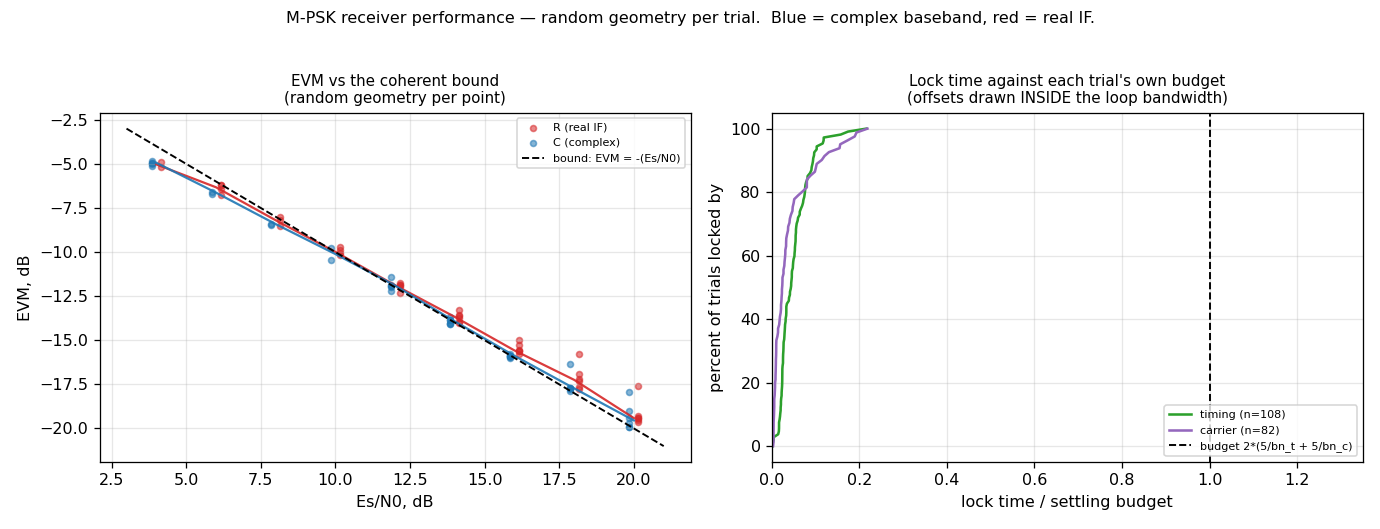
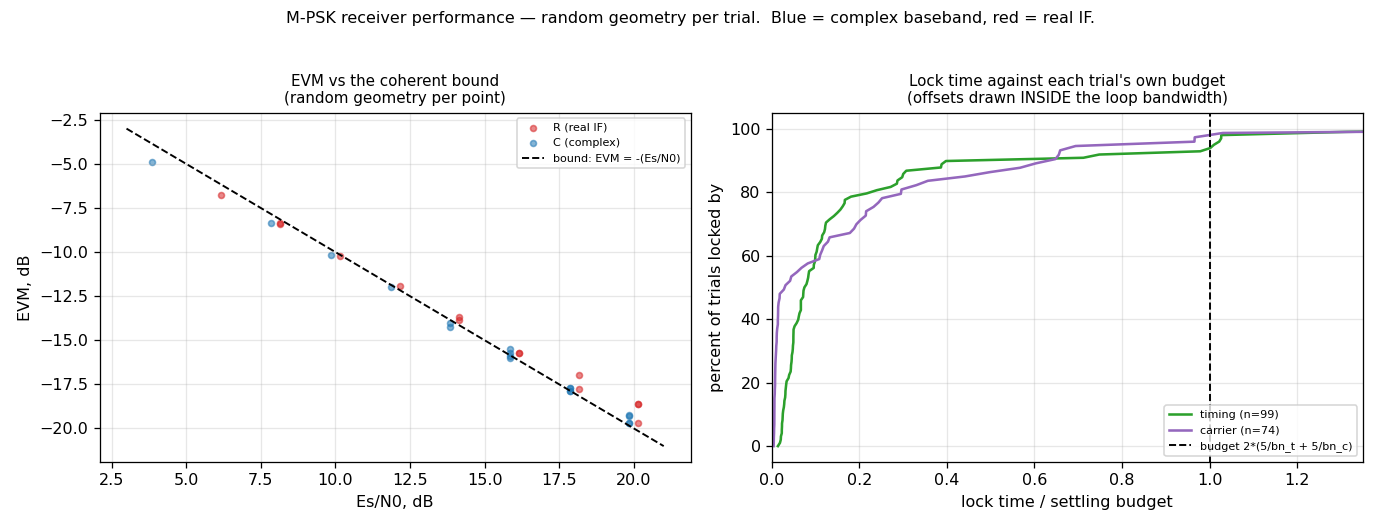
fix(examples): the mpsk perf demo runs, and measures with the shipped meters
Three private copies of shared formulas, and the last was hiding the other
two. The example is off `.examples-skip` and runs in CI.

1. THE CARRIER OFFSET was `uniform(-0.5, 0.5) * bn_carrier / sps`. The
   acquisition bound is `bn_carrier / m` cycles per SYMBOL, so that was wrong
   twice: `/sps` for `/m`, and per-sample where the bound is per-symbol. It
   seeded 0.5*m times the bound -- 1x at BPSK, 2x at QPSK, 4x at 8PSK. At 4x,
   8PSK still acquires but needs 4771 symbols against a 3200-symbol record,
   so four trials ended mid-acquisition and read as "failed to lock", every
   one of them 8PSK. `freq_offset_inside_bw` already said "There is no `sps`
   here" and "the `m` ... hid a factor of m" (doppler#843); the private copy
   never received that fix. Now imported.

2. THE EVM was longhand. Now `ber_evm_db`. Verified equivalent BEFORE
   swapping -- the two agree to 0.01 dB across m, sps and Es/N0 -- so no
   number moved; there is simply no longer a second definition.

3. THE SER was DIFFERENTIAL and taken as the MINIMUM over 401 lags. A min
   over lags optimises over the answer; `BerMeter.align` correlates a marker
   and gates on a false-alarm probability instead. And a differential SER
   cannot see a cycle slip, so it read 0.055 where the coherent truth was
   0.466 on one stream.

That 0.466 looked like a false lock and I filed it as one. It is not: with
the window opened after the timing rate settles, the same capture scores SER
[…]

diff --git a/src/doppler/examples/mpsk_receiver_performance_demo.py b/src/doppler/examples/mpsk_receiver_performance_demo.py
@@ -80,7 +80,10 @@ from doppler.track import MpskReceiver, MpskReceiverR
 # The one definition of "an offset inside the loop's acquisition
 # bound". Imported rather than restated: a second copy is how the
 # missing `/m` survived here after doppler#843 fixed it upstream.
-from doppler.track.tests._mpsk_rx_harness import freq_offset_inside_bw
+from doppler.track.tests._mpsk_rx_harness import (
+    freq_offset_inside_bw,
+    rate_settled,
+)
 
 # ── the measurement rules, in one place ──────────────────────────────────
 #
@@ -563,7 +566,7 @@ def implementation_loss_db(m, esn0_db, ser):
 
 
 def run_trial(
-    rng, real, esn0_db=None, noise_only=False, nsym_extra=1200, ampl=None
+    rng, real, esn0_db=None, noise_only=False, nsym_extra=6000, ampl=None
 ):
     """One Monte-Carlo trial. Returns a record, or None if it never locked."""
     g = draw_geometry(rng, real)
@@ -613,7 +616,34 @@ def run_trial(
     if t_lock is None or c_lock is None:
         rec.update(evm=float("nan"), ser=float("nan"), locked=False)
         return rec
-    settle = max(budget, t_lock, c_lock)
+    # max(budget, timing lock, carrier lock) is the standard policy, and
+    # every term in it is about PHASE. None covers the time to slew out the
+    # CLOCK offset this sweep seeds, which is far slower -- measured 12.7x
+    # the 5/Bn budget. While the rate is still wrong the receiver emits at
+    # slightly the wrong cadence, so the rx-to-truth lag MOVES, and BerMeter
+    # scores a detected lag verbatim: the window then reads right at its
+    # start and wrong after it. That is an SER of 0.48 on a receiver whose
+    # settled SER is 0, and it looks exactly like a false lock. doppler#1060.
+    # max(budget, timing lock, carrier lock) is the standard policy, and
+    # every term in it is about PHASE. None covers the time to slew out the
+    # CLOCK offset this sweep seeds, which is far slower -- measured 12.7x
+    # the 5/Bn budget. While the rate is still wrong the receiver emits at
+    # slightly the wrong cadence, so the rx-to-truth lag MOVES, and BerMeter
+    # scores a detected lag verbatim: the window then reads right at its
+    # start and wrong after it. That is an SER of 0.48 on a receiver whose
+    # settled SER is 0, and it looks exactly like a false lock. doppler#1060.
+    r_settled = rate_settled(pr)
+    if r_settled is None:
+        # The rate never stopped moving inside this record, so there is no
+        # window in which a single detected lag is valid. Refuse it rather
+        # than measure it -- an unmeasurable trial reported as a bad one is
+        # how a working receiver acquires a reputation. Counted below so the
+        # refusals cannot hide.
+        rec.update(
+            evm=float("nan"), ser=float("nan"), locked=True, unmeasurable=True
+        )
+        return rec
+    settle = max(budget, t_lock, c_lock, r_settled)
     if len(y) - settle < 300:
         rec.update(evm=float("nan"), ser=float("nan"), locked=False)
         return rec
@@ -1092,7 +1122,19 @@ def main(
     tel_rows = measure_telemetry(rng) if "telemetry" in only else []
 
     # ── self-validation: exit 0 must mean "demonstrated AND checked" ──────
-    locked = [t for t in sweep if t["locked"]]
+    # A trial whose rate never settled inside its record has no window in
+    # which one detected lag is valid, so it carries no EVM or SER to judge.
+    # It is NOT a lock failure -- it is locked -- and it must not be scored
+    # as one. Reported rather than dropped silently: a refusal nobody counts
+    # is indistinguishable from a measurement nobody made.
+    unmeasurable = [t for t in sweep if t.get("unmeasurable")]
+    if unmeasurable:
+        print(
+            f"  {len(unmeasurable)}/{len(sweep)} trial(s) unmeasurable: the "
+            f"timing rate was still slewing at the end of the record, so no "
+            f"single alignment spans a window (doppler#1060)"
+        )
+    locked = [t for t in sweep if t["locked"] and not t.get("unmeasurable")]
     if need_sweep:
         # Acquisition has an SNR THRESHOLD, so a blanket lock-rate assertion is
         # the wrong shape: it either fails on physics or is too weak to catch a

diff --git a/src/doppler/track/tests/_mpsk_rx_harness.py b/src/doppler/track/tests/_mpsk_rx_harness.py
@@ -430,6 +430,48 @@ def settle_from(probes, floor=SETTLE_SYMS):
     return int(ber_settle_from(floor, t, c))
 
 
+def rate_settled(probes, tol=1e-4, hold=500):
+    """First symbol after which `sync.rate` stops moving, or None.
+
+    `settle_from()` is `max(budget, timing lock, carrier lock)`, and every
+    term in it is a PHASE settling statement. None of them covers the time to
+    slew out a CLOCK (rate) offset, which is a different and much slower
+    thing -- measured on BPSK at sps 32.95, with the seeded clock error at
+    half the timing bandwidth (`clock_offset_inside_bw`, 2.655e-3 here):
+
+        bn_timing = 0.0064   5/Bn = 781 symbols
+        rate error at 781    2.64e-3   (the initial error was 2.655e-3)
+        rate error < 1e-4    at 9900   -- 12.7x the budget
+
+    With no clock offset the same loop is settled on time, so this is
+    specific to slewing a rate error rather than the loop being sluggish.
+
+    Why it matters to a TRUTH-REFERENCED measurement, which is the only kind
+    that sees it: while the rate is wrong the receiver emits symbols at
+    slightly the wrong cadence, so the rx-to-truth lag MOVES. `BerMeter`
+    detects one lag and scores with it verbatim, so a window opened before
+    the rate settles is scored against the right truth at its start and the
+    wrong truth after -- measured, lag 18 becoming lag 19, and an SER of
+    0.483 on a receiver whose real SER over the settled window is 0. It reads
+    exactly like a false lock and is not one (doppler#1060).
+
+    `tol` is fractional rate error and `hold` how long it must stay inside
+    it, because the estimate is noisy and one excursion is not a relapse.
+    Returns None when it never settles within the record.
+    """
+    r = probes.get("sync.rate")
+    if r is None or r.size < hold:
+        return None
+    final = float(np.median(r[-hold:]))
+    if final == 0.0:
+        return None
+    err = np.abs(r - final) / abs(final)
+    for i in range(0, err.size - hold, hold // 5 or 1):
+        if err[i:].max() < tol:
+            return int(i)
+    return None
+
+
 def detect_alignment(y, idx, m, settle, lag_span=40, n_marker=256):
     """The one alignment recipe: a `BerMeter` with a DETECTED lag, or `None`.
 

diff --git a/docs/gallery/mpsk-receiver-performance.md b/docs/gallery/mpsk-receiver-performance.md
@@ -50,7 +50,24 @@ receiver's test harness encode.
 **EVM vs the coherent bound.** Self-referenced EVM — each symbol against its own
 hard decision — against `EVM_dB = −(Es/N0)_dB`. EVM is an I/Q-plane quantity, so
 there is no factor of two, and an EVM *beating* the bound means the measurement
-is wrong. Median margin over the whole random sweep: **+0.1 dB**.
+is wrong. Median margin over the whole random sweep: **+0.2 dB**.
+
+!!! warning "Some trials carry no measurement, and the demo says so"
+
+    A trial whose timing rate is still slewing at the end of its record has
+    **no window in which one detected alignment is valid** — the receiver is
+    emitting at slightly the wrong cadence, so the rx-to-truth lag moves
+    inside the window. `BerMeter` scores a detected lag verbatim, so such a
+    window reads correct at its start and chance after it: measured, lag 18
+    becoming 19, and an SER of **0.483** on a receiver whose settled SER over
+    the same capture is **0**.
+
+    That is not a lock failure and must not be scored as one. Those trials are
+    refused and **counted in the output** rather than dropped, because a
+    refusal nobody counts is indistinguishable from a measurement nobody made.
+    The underlying cause — `5/Bn` is a phase-settling budget and does not cover
+    slewing out a clock offset, measured 12.7× short — is
+    [doppler#1060](https://github.com/doppler-dsp/doppler/issues/1060).
 
 **Lock time against each trial's own budget.** Not an absolute symbol count — a
 *fraction* of that trial's `2·(5/bn_t + 5/bn_c)`, which is the only way to

diff --git a/docs/api/python-ber.md b/docs/api/python-ber.md
@@ -156,7 +156,7 @@ ______________________________________________________________________
 
 <!-- related-pages:start -->
 
-**Gallery** — [Measuring an Error Rate, Defensibly](../gallery/ber-awgn.md), [Gallery](../gallery/index.md)
+**Gallery** — [Measuring an Error Rate, Defensibly](../gallery/ber-awgn.md), [Gallery](../gallery/index.md), [M-PSK Receiver — Performance Characterisation](../gallery/mpsk-receiver-performance.md)
 **Design** — [Detection Sizing — the four laws behind one prefix](../design/detection.md), [The FEC Receive Half](../design/fec-receive.md), [Receiver Test Harness](../design/rx-test.md)
 **Contributing** — [Measuring a receiver](../dev/contributing/measuring-a-receiver.md)
 
